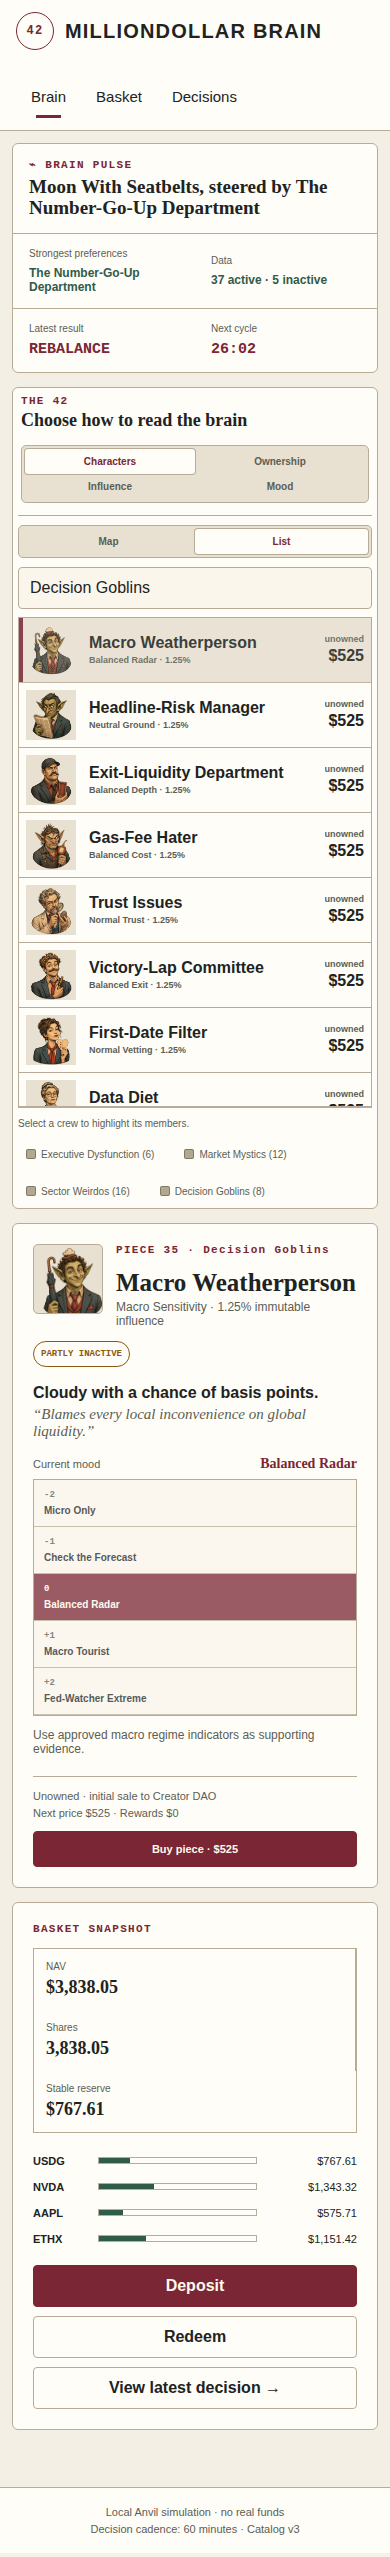
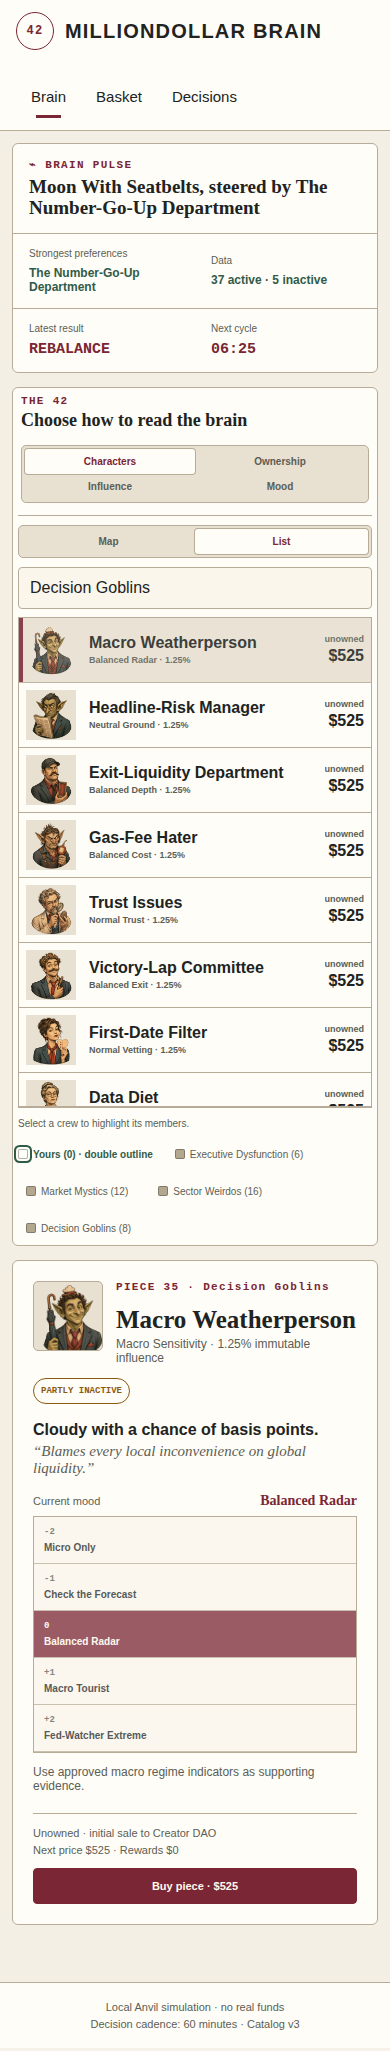
Simplify_brain_screen_and_highlight_owned_pieces

diff --git a/apps/web/components/brain-map.tsx b/apps/web/components/brain-map.tsx
@@ -331,6 +331,11 @@ export function BrainMap({
                         aria-hidden="true"
                       />
                       <path
+                        className="ownership-halo"
+                        d={presentation.path}
+                        aria-hidden="true"
+                      />
+                      <path
                         className="segment-boundary"
                         d={presentation.path}
                       />
@@ -448,6 +453,15 @@ function ModeLegend({
   highlightedCrew: string | null;
   onCrewHighlight: (crew: string) => void;
 }) {
+  const mineCount = pieces.filter(
+    (piece) => ownershipState(piece, account) === "mine",
+  ).length;
+  const ownershipKey = (
+    <span className="ownership-at-glance-key">
+      <i className="legend-mine-halo" />
+      Yours ({mineCount}) · double outline
+    </span>
+  );
   if (mode === "characters") {
     const crews = [...new Set(pieces.map((piece) => piece.crew))];
     return (
@@ -457,6 +471,7 @@ function ModeLegend({
             ? `${highlightedCrew} highlighted. Select it again to clear.`
             : "Select a crew to highlight its members."}
         </p>
+        {ownershipKey}
         {crews.map((crew) => (
           <button
             className={`crew-legend-button${highlightedCrew === crew ? " active" : ""}`}
@@ -485,8 +500,8 @@ function ModeLegend({
           Other owners ({counts.owned})
         </span>
         <span>
-          <i className="legend-mine" />
-          Yours ({counts.mine})
+          <i className="legend-mine-halo" />
+          Yours ({counts.mine}) · double outline
         </span>
       </div>
     );
@@ -494,6 +509,7 @@ function ModeLegend({
   if (mode === "influence") {
     return (
       <div className="map-legend" aria-label="Influence legend">
+        {ownershipKey}
         <span>
           <i className="legend-influence-low" />
           Light: lower influence
@@ -511,6 +527,7 @@ function ModeLegend({
   }
   return (
     <div className="map-legend" aria-label="Mood legend">
+      {ownershipKey}
       {[-2, -1, 0, 1, 2].map((value) => (
         <span key={value}>
           <i

diff --git a/apps/web/components/editorial-dashboard.tsx b/apps/web/components/editorial-dashboard.tsx
@@ -349,57 +349,6 @@ export function EditorialDashboard({
               </aside>
             )}
           </section>
-
-          <section className="brain-basket-row">
-            <article className="basket-snapshot">
-              <p className="section-kicker">BASKET SNAPSHOT</p>
-              <div className="snapshot-metrics">
-                <Metric
-                  label="NAV"
-                  value={`$${data ? money(data.nav) : "—"}`}
-                />
-                <Metric
-                  label="Shares"
-                  value={data ? money(data.supply) : "—"}
-                />
-                <Metric
-                  label="Stable reserve"
-                  value={`$${data ? money(data.holdings.USDG) : "—"}`}
-                />
-              </div>
-              <div className="snapshot-holdings">
-                {data &&
-                  Object.keys(data.holdings).map((symbol) => {
-                    const value = data.holdingValues[symbol] ?? "0";
-                    return (
-                      <div key={symbol}>
-                        <b>{symbol}</b>
-                        <span>
-                          <i
-                            style={{
-                              width: `${Math.max(3, (Number(value) / Math.max(1, Number(data.nav))) * 100)}%`,
-                            }}
-                          />
-                        </span>
-                        <em>${money(value)}</em>
-                      </div>
-                    );
-                  })}
-              </div>
-              <div className="snapshot-actions">
-                <button
-                  className="primary-action"
-                  onClick={() => setScreen("Basket")}
-                >
-                  Deposit
-                </button>
-                <button onClick={() => setScreen("Basket")}>Redeem</button>
-                <button onClick={() => setScreen("Decisions")}>
-                  View latest decision →
-                </button>
-              </div>
-            </article>
-          </section>
         </div>
       )}
 

diff --git a/apps/web/app/globals.css b/apps/web/app/globals.css
@@ -1373,8 +1373,7 @@ footer {
 
 /* Brain map v2 */
 .brain-pulse-strip,
-.brain-primary-grid,
-.brain-basket-row {
+.brain-primary-grid {
   min-width: 0;
 }
 .brain-pulse-strip {
@@ -1436,9 +1435,6 @@ footer {
   grid-template-columns: minmax(0, 1fr) minmax(390px, 470px);
   align-items: start;
   gap: 14px;
-}
-.brain-basket-row {
-  margin-top: 14px;
 }
 .brain-map-wrap {
   min-width: 0;
@@ -1568,6 +1564,22 @@ footer {
   transition:
     stroke 130ms,
     stroke-width 130ms;
+}
+.brain-cell .ownership-halo {
+  fill: none;
+  opacity: 0;
+  stroke: var(--positive);
+  stroke-linejoin: round;
+  stroke-width: 5;
+  vector-effect: non-scaling-stroke;
+  pointer-events: none;
+}
+.brain-cell.ownership-mine .ownership-halo {
+  opacity: 1;
+}
+.brain-cell.selected .ownership-halo {
+  stroke: var(--primary);
+  stroke-width: 6;
 }
 .editorial-dark .brain-cell .segment-boundary {
   stroke: color-mix(in srgb, var(--text) 38%, transparent);
@@ -1750,6 +1762,16 @@ footer {
   background: color-mix(in srgb, var(--primary) 10%, transparent);
   color: var(--primary);
 }
+.map-legend .ownership-at-glance-key {
+  color: var(--positive);
+  font-weight: 700;
+}
+.legend-mine-halo {
+  background: var(--surface);
+  box-shadow:
+    0 0 0 2px var(--surface),
+    0 0 0 4px var(--positive);
+}
 .legend-character {
   background: #b3a88f;
 }
@@ -1814,10 +1836,6 @@ footer {
   flex-direction: column;
   gap: 5px;
 }
-.brain-basket-row .basket-snapshot {
-  width: 100%;
-}
-
 @media (max-width: 1150px) {
   .editorial-header {
     grid-template-columns: 1fr auto;

diff --git a/PRD.md b/PRD.md
@@ -659,7 +659,7 @@ The accepted editorial mockups below are normative parts of the PRD. `DESIGN_SYS
 
 ![Brain dark mode](design/mockups/brain-screen-v3-refined-dark.png)
 
-The implemented Brain map uses 42 individually generated v2 catalog-character portraits inside one continuous anatomically traced lateral-brain SVG silhouette. The trace supplies a convincing crown, frontal profile, temporal underside, connected cerebellar mass, and brainstem without relying on a mismatched raster background or separate blob outlines. The presentation manifest labels 34 visual slots as cerebrum, 6 as cerebellum, and 2 as brainstem to guide placement, but all 42 cells share one outer mask and one tessellation. A fixed presentation-only permutation scatters all four character crews horizontally and vertically instead of reproducing catalog-order bands; canonical NFT IDs and economics remain unchanged. The manifest also owns curved segment geometry, visual centers, directional keyboard neighbors, and portrait transforms. Characters is the quiet default view; its four crew legend labels toggle full-color crew highlighting while muting non-members. Ownership, Influence, and Mood expose distinct semantic layers with textual legends and counts. Hover and focus preview a tooltip without changing selection. Click, tap, Enter, and Space select; arrows use explicit spatial neighbors; Home and End select the canonical first and last pieces. The map supports 1 through 2.5 times zoom in a native scrolling viewport, and mobile adds a searchable List view. The complete inspector permanently occupies the desktop right rail, Brain Pulse is a full-width summary strip, and Basket Snapshot follows the primary area. Numbers and generic glyphs do not cover the portraits. The final art roster and generation direction are recorded in [`design/brain-art/README.md`](design/brain-art/README.md).
+The implemented Brain map uses 42 individually generated v2 catalog-character portraits inside one continuous anatomically traced lateral-brain SVG silhouette. The trace supplies a convincing crown, frontal profile, temporal underside, connected cerebellar mass, and brainstem without relying on a mismatched raster background or separate blob outlines. The presentation manifest labels 34 visual slots as cerebrum, 6 as cerebellum, and 2 as brainstem to guide placement, but all 42 cells share one outer mask and one tessellation. A fixed presentation-only permutation scatters all four character crews horizontally and vertically instead of reproducing catalog-order bands; canonical NFT IDs and economics remain unchanged. The manifest also owns curved segment geometry, visual centers, directional keyboard neighbors, and portrait transforms. Characters is the quiet default view; its four crew legend labels toggle full-color crew highlighting while muting non-members. Personally owned pieces retain a high-contrast double-outline halo in every map mode, with a textual legend and count, so wallet ownership is visible at a glance without relying on color alone. Ownership, Influence, and Mood expose distinct semantic layers with textual legends and counts. Hover and focus preview a tooltip without changing selection. Click, tap, Enter, and Space select; arrows use explicit spatial neighbors; Home and End select the canonical first and last pieces. The map supports 1 through 2.5 times zoom in a native scrolling viewport, and mobile adds a searchable List view. The complete inspector permanently occupies the desktop right rail and Brain Pulse is a full-width summary strip. The Brain screen does not duplicate Basket Snapshot; holdings, deposits, and redemptions live on the dedicated Basket screen. Numbers and generic glyphs do not cover the portraits. The final art roster and generation direction are recorded in [`design/brain-art/README.md`](design/brain-art/README.md).
 
 #### Basket
 

diff --git a/MEMORY.md b/MEMORY.md
@@ -5,7 +5,7 @@ Durable project context lives here. Update this file whenever information should
 ## Active Handoff
 
 - Current task: Finish and verify the usable local-devnet release on VM `192.168.50.135`.
-- Last meaningful change: Expanded Decisions into a selectable, newest-first archive of the 50 latest AI and fallback cycles with their brain snapshots, allocations, rationales, blocks, and execution transactions.
+- Last meaningful change: Simplified Brain by removing its duplicate Basket Snapshot and added a persistent double-outline halo plus legend count so connected-wallet-owned pieces are visible at a glance in every map mode.
 - Next step: Keep the native services healthy and use the release at `http://192.168.50.135:3000`; Robinhood public testnet work begins only when canonical asset, oracle, venue, signer, and RPC inputs are supplied.
 - Blockers: None for local use. Real-value activation remains gated on counsel, production integrations and credentials, multisig/timelock migration, a professional audit, and Robinhood Chain release manifests.
 
@@ -98,6 +98,7 @@ When sources conflict, use this order:
[1 lines of base64/hex data omitted]
 - 2026-07-26: Fixed the Basket Snapshot valuation defect by returning router-priced `holdingValues` separately from raw token-unit `holdings` and using those values throughout Snapshot and Basket Ledger. Production build and Prettier pass; Chromium UAT verifies priced holdings reconcile exactly to NAV, and final in-app-browser UAT showed current and target weights aligned at USDG 20%, NVDA 40%, AAPL 10%, and ETHX 30%.
 - 2026-07-26: Implemented historical decision exploration. `/api/status` returns the newest 50 valid cycle records; Decisions selects the latest by default and lets users inspect older AI or fallback cycles, their brain context, allocation, rationale, block, rebalance hash, and optional redemption-settlement hash. Production build, Prettier, full economic/AI Chromium UAT, historical selection, mobile overflow, and live in-app-browser visual checks pass.
+- 2026-07-26: Removed the duplicate Basket Snapshot from Brain and kept basket composition and funding actions on the dedicated Basket screen. Added a persistent double-outline halo for pieces owned by the connected wallet in Characters, Ownership, Influence, and Mood modes, with a textual `Yours (n)` legend. Next production build, Prettier, full Chromium UAT, live no-overflow check, and in-app-browser visual review pass.
 
 ## Decisions
 

diff --git a/UX_SCREENS.md b/UX_SCREENS.md
@@ -83,24 +83,23 @@ This is the visual identity, marketplace, and plain-language overview.
 
 ### First viewport
 
-The first viewport must answer four questions immediately:
+The first viewport must answer three questions immediately:
 
 1. What does the brain currently prefer?
-2. What does the basket currently hold?
+2. Which pieces do I own and control?
 3. What did Ornith decide most recently?
-4. What can I do?
 
 Desktop layout:
 
+- Brain Pulse summary strip across the top.
 - Interactive 42-piece brain occupying the main visual area.
-- Brain Pulse card beside it.
-- Basket snapshot and primary actions below or beside the pulse.
+- Complete selected-piece inspector in the right rail.
 
 Mobile layout:
 
 - Brain Pulse summary first.
 - Zoomable brain second.
-- Sticky Deposit, Redeem, and My Pieces action bar.
+- Selected-piece inspector after the map or list.
 
 ### Brain Pulse card
 
@@ -123,27 +122,19 @@ Use a `See why` action to open the latest decision.
 - Selected overlay may show ownership, weight, preset, price, or recent change.
 - Hover or tap shows piece name, current preset, influence, owner status, and price.
 - Selecting a piece opens the Brain Piece drawer.
-- A `My Pieces` filter highlights the connected wallet's pieces.
+- Personally owned pieces retain a double-outline ownership halo in all map modes.
+- A textual `Yours (n) · double outline` key communicates the connected wallet's count without relying on color alone.
 
 The brain itself is the NFT marketplace. There is no separate marketplace page.
 
-### Basket snapshot
-
-Show only the information needed for orientation:
-
-- NAV.
-- Share price.
-- 24-hour basket change.
-- Stable reserve.
-- Top holdings.
-- Current versus target allocation summary.
-
-The full holdings experience belongs on Basket.
-
 ### Primary actions
 
-- Deposit.
-- Redeem.
+- Buy the selected brain piece.
+- Change the selected mood when owned.
+- Claim brain-owner rewards.
+
+Deposits, redemptions, holdings, and allocation detail belong on Basket and are not duplicated on Brain.
+
 - Inspect or purchase a brain piece.
 - View latest decision.
 

diff --git a/DESIGN_SYSTEM.md b/DESIGN_SYSTEM.md
@@ -175,7 +175,8 @@ Automated and manual testing still validates rendered contrast after font weight
 - The four crew labels below Characters mode are toggle buttons. Activating one brings that crew to full color, strengthens its boundaries, mutes non-members, exposes `aria-pressed`, and clears when activated again.
 - Crew identity must never form horizontal catalog-order bands. The presentation manifest uses a fixed visual-slot permutation that scatters every crew across the width and height of the brain while preserving canonical piece IDs.
 - Unselected portraits are intentionally subdued. Hover and keyboard focus preview; only click, tap, Enter, or Space commits selection.
-- The inspector permanently owns the desktop right rail. Brain Pulse is a compact full-width summary strip, and Basket Snapshot follows the primary map and inspector.
+- The inspector permanently owns the desktop right rail and Brain Pulse is a compact full-width summary strip. The Brain screen ends after the primary map and inspector; basket information belongs on the dedicated Basket screen.
+- A connected wallet's pieces retain a positive-color double-outline halo in every map mode. A textual `Yours (n) · double outline` key makes the treatment discoverable and ensures color is not the only ownership signal.
 - Mobile provides Map and searchable List views. Zoom is clamped to 1 through 2.5 times inside a native scrolling viewport.
 - The map does not overlay piece numbers or generic glyphs on the portraits. Catalog names remain available through accessible labels and the selected-piece ledger.
 - The generated art direction and canonical asset paths are defined in `design/brain-art/README.md`.
